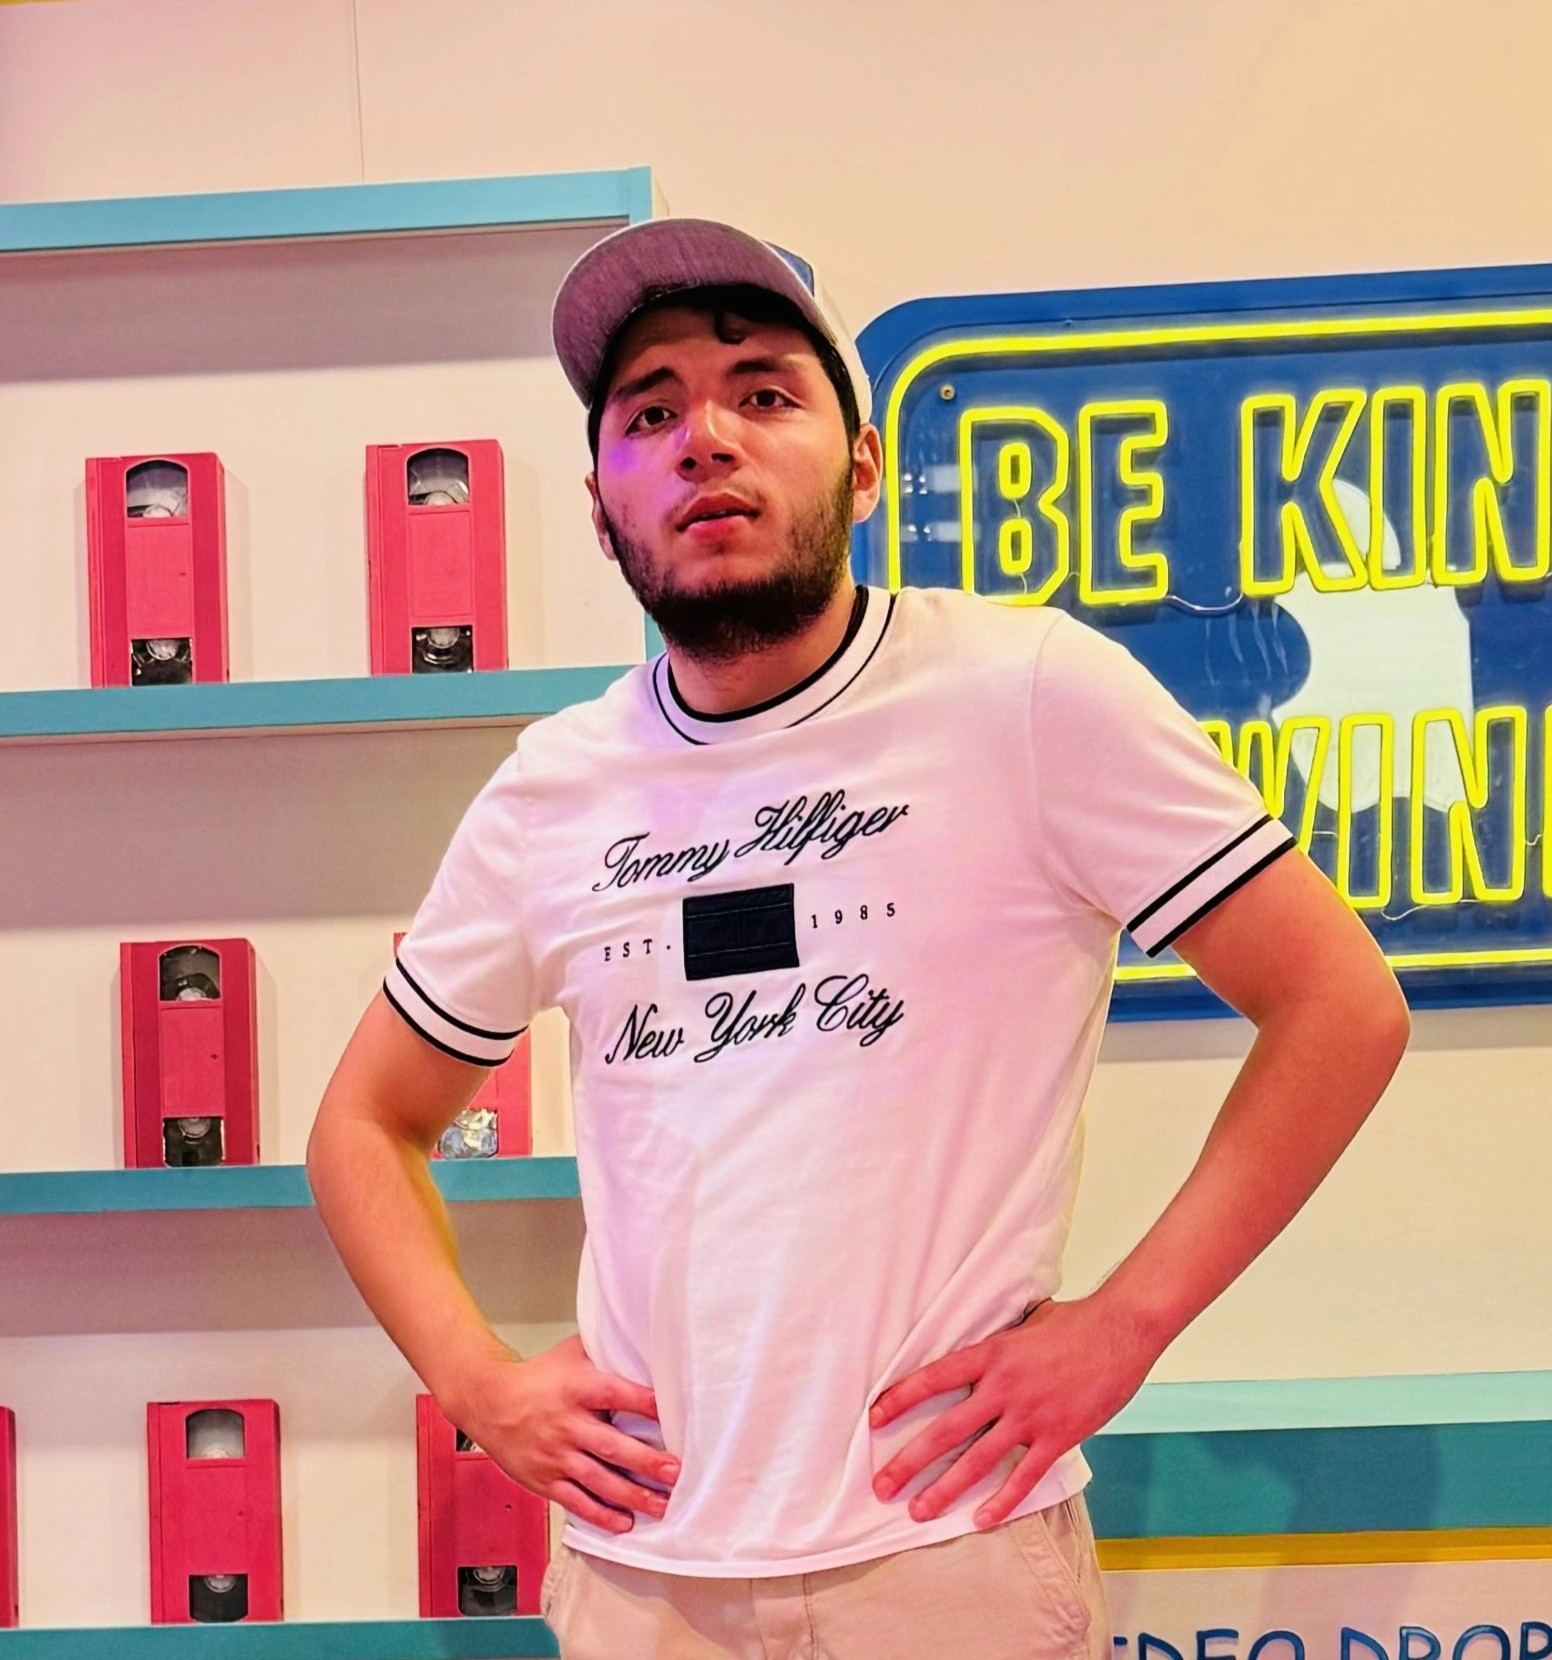
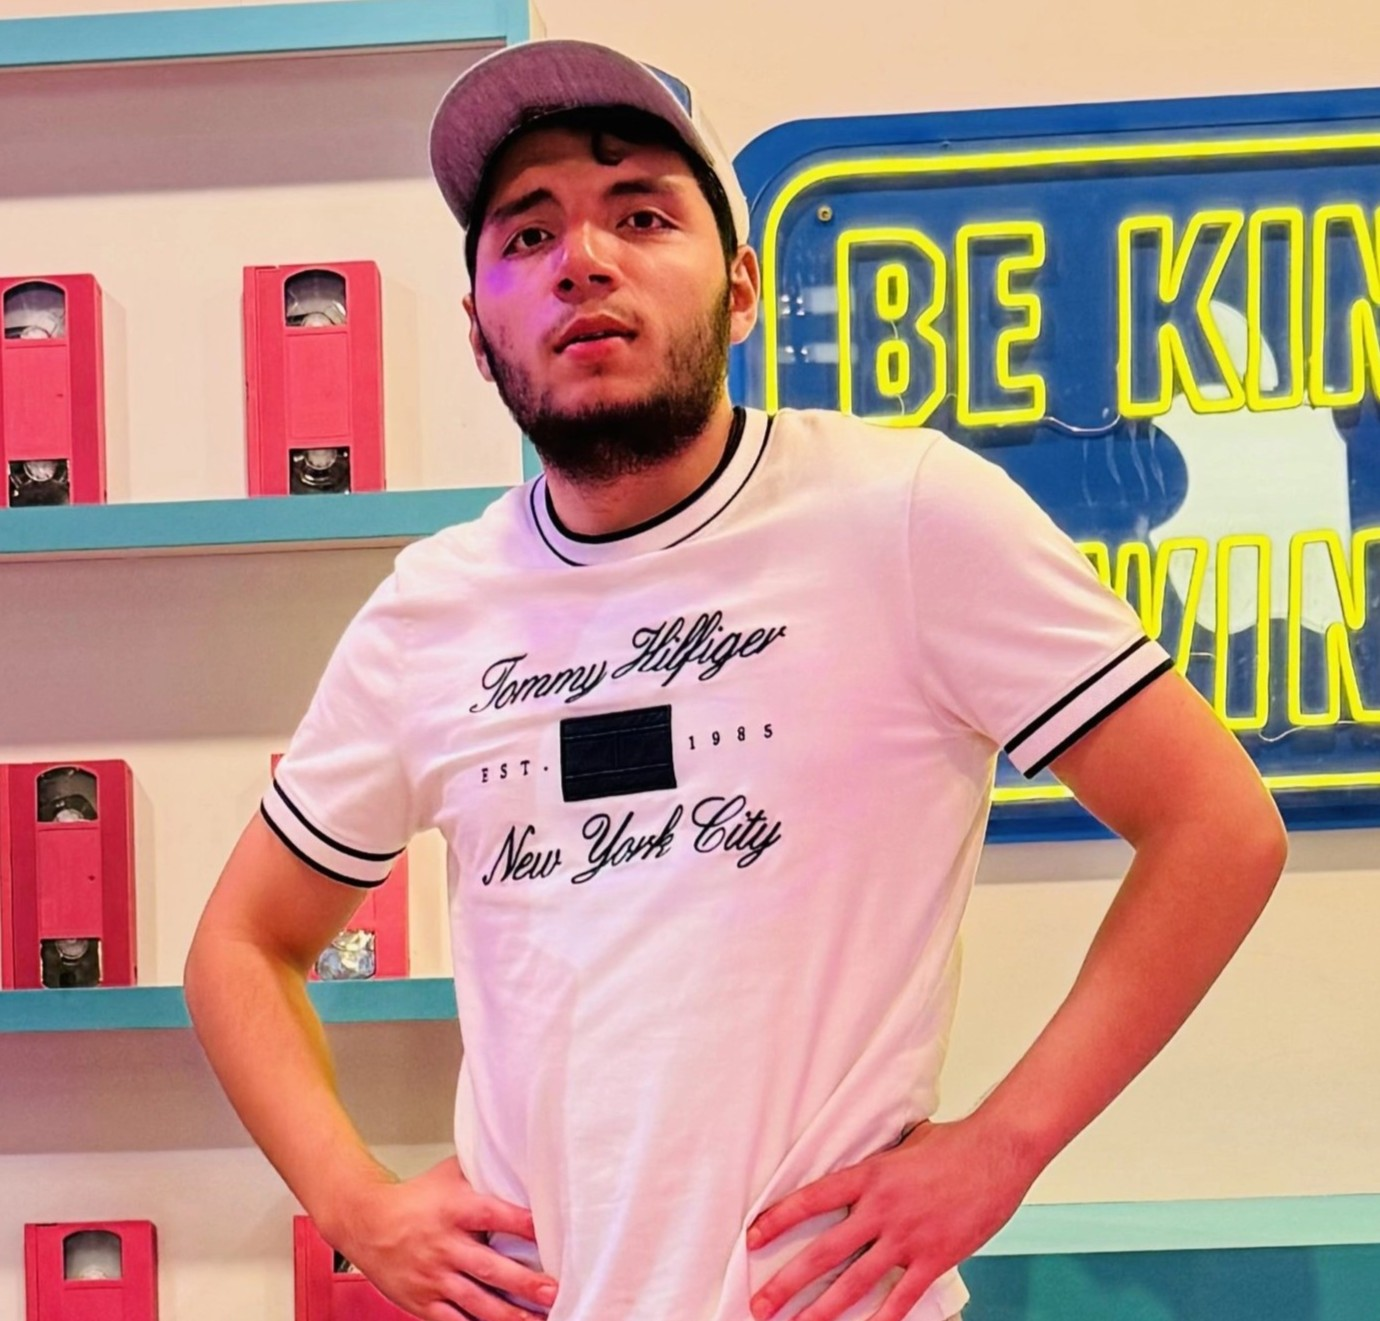
added navbar and some styles, darkmode next

diff --git a/src/App.jsx b/src/App.jsx
@@ -1,32 +1,52 @@
 import { useState } from 'react'
-import TeamMember from "./components/TeamMember/TeamMember";
+import TeamMember from "./components/TeamMember/TeamMember"
 import './App.css'
 import team from './data/team'
+import Navbar from "./components/NavBar/Navbar"
 
 function App() {
   const [count, setCount] = useState(0)
 
   return (
     <>
+      <Navbar />
       <div class ="banner"> 
-        <h1 class="banner-title">About [TEAM PROJECT]</h1>
-        <p>(Clever little slogan about our project here)</p>
+        <h1 class="banner-title">About CareerGPS</h1>
+        <p>Navigate your career with confidence</p>
       </div>
 
       <div class="about-section">
-        <div class="box">
-          <h1>Who We Are</h1>
-          <p>This is going to be a paragraph describing us as a team, I'll figure this out later</p>
+        <div class="us box">
+          <h1 class="box-header">Who We Are</h1>
+          <p class="box-body">
+            We are a team of computer science students passionate about bridging the gap
+            between higher education and the modern job market. As a team full of seniors,
+            we know firsthand how overwhelming it can be to get started on a career path.
+            That is why we create CareerGPS! We wanted to build an intuitive web application
+            that simplifies the journey and help our peers get their foot in the door confidently.
+            By transforming academic backgrounds and personal goals into clear, actionable career
+            pathways and professional resumes, we are here to ensure the nos student has to navigate 
+            their future without a map.
+          </p>
         </div>
 
         <div class="about-details">
           <div class="box">
-            <h1>Our Mission</h1>
-            <p>This is going to talk about what our goal is, obviously depends on what we pick</p>
+            <h1 class="box-header">Our Mission</h1>
+            <p class="box-body">
+              Our focus is to eliminate the guesswork from the college-to-career transition.
+              Our team is dedicated to providing students with accessible, data-driven navigation tools
+              to find a clear post-graduation trajectory. With structured guidance, we plan to empower
+              every student to confidently kickstart their professional journeys.
+            </p>
           </div>
           <div class="box">
-            <h1>Our Vision</h1>
-            <p>Same as the above field, our vision can come together once we know what we're building</p>
+            <h1 class="box-header">Our Vision</h1>
+            <p class="box-body">
+              Our vision is a world where no degree goes to waste and every student has a clear route
+              to their dream job! We aim to become a digital compass for higher education and ensure that 
+              any student enters their desired career with ease.
+            </p>
           </div>
         </div>
 

diff --git a/src/components/NavBar/Navbar.css b/src/components/NavBar/Navbar.css
@@ -1,0 +1,35 @@
+.navbar{
+    display: flex;
+    flex-direction: row;
+    justify-content: space-evenly;
+    background-color: whitesmoke;
+    padding: 10px;
+    align-items: center;
+    position: sticky;
+    top: 0;
+    z-index: 1000;
+    border-bottom: 2px solid;
+    border-image-slice: 1;
+    border-image-source: linear-gradient(to right, whitesmoke, #3092c0, whitesmoke);
+
+}
+
+#logo{
+    height: 75px;
+    margin: 0;
+}
+
+.nav-btn{
+    background: transparent;
+    font-size: 20px;
+    border: 0;
+    border-radius: 10px;
+    padding: 10px;
+    color: #297ca3;
+    text-decoration: none;
+}
+
+.nav-btn:hover{
+    background-image: linear-gradient(to right, #297ca3, #3092c0, #3092c0, #297ca3);
+    color: whitesmoke;
+}

diff --git a/src/components/NavBar/Navbar.jsx b/src/components/NavBar/Navbar.jsx
@@ -1,0 +1,18 @@
+import './Navbar.css'
+import logo from '../../assets/CareerGPS-logo.png'
+
+function Navbar(){
+    return (
+        <nav class="navbar">
+            <img src={logo} alt="CareerGPS logo" id="logo"/>
+
+            <a href="/" class="nav-btn">Home</a>
+            <a href="/tutors" class="nav-btn">Find a Tutor</a>
+            <a href="/resume" class="nav-btn">Resume Help</a>
+            <a href="/roadmap" class="nav-btn">Career Roadmap</a>
+            <a href="/login" class="nav-btn"> Log In</a>
+        </nav>
+    )
+}
+
+export default Navbar;

diff --git a/src/App.css b/src/App.css
@@ -30,6 +30,22 @@
   background-color: whitesmoke;
 }
 
+.box-header{
+  color: navy;
+  border-bottom: 2px solid;
+  border-image-slice: 1;
+  border-image-source: linear-gradient(to right, whitesmoke, whitesmoke, navy, whitesmoke, whitesmoke);
+  margin-bottom: 1rem;
+}
+
+.box-body{
+  color: navy;
+}
+
+.us{
+  max-width: 45%;
+}
+
 .about-details{
   flex-direction: column;
   justify-content: space-evenly;

diff --git a/src/components/TeamMember/TeamMember.css b/src/components/TeamMember/TeamMember.css
@@ -16,6 +16,7 @@
     object-fit: contain;
     width: 100%;
     height: auto;
+    margin-bottom: 1rem;
 }
 
 .role{
